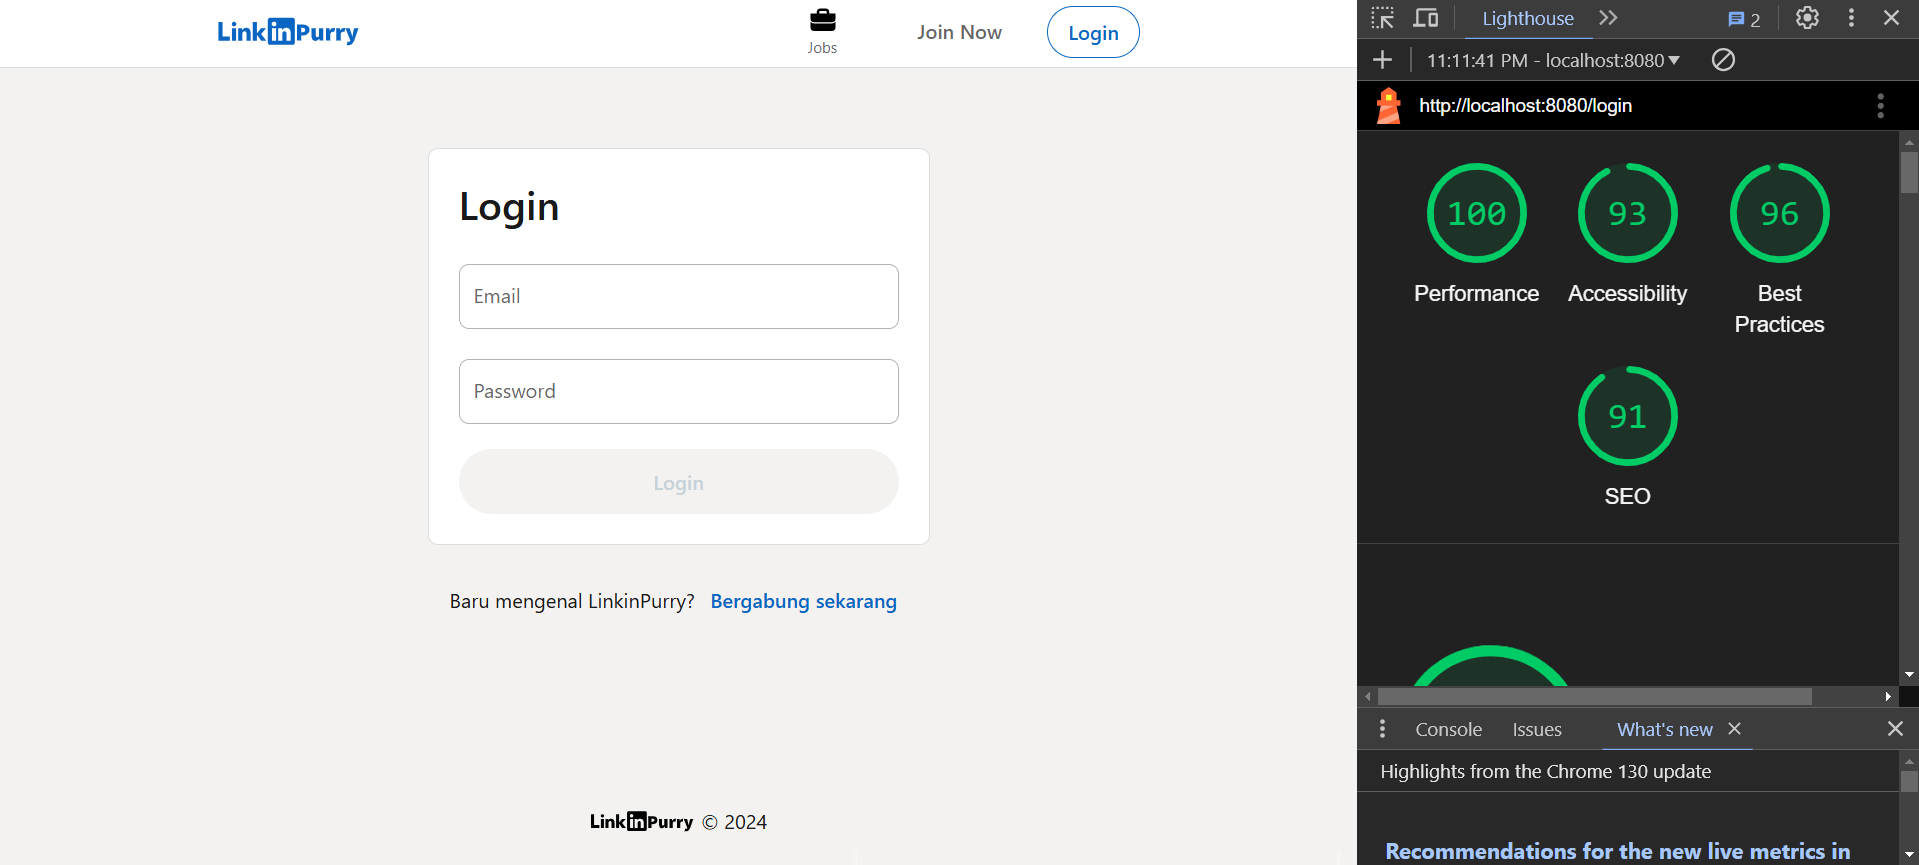
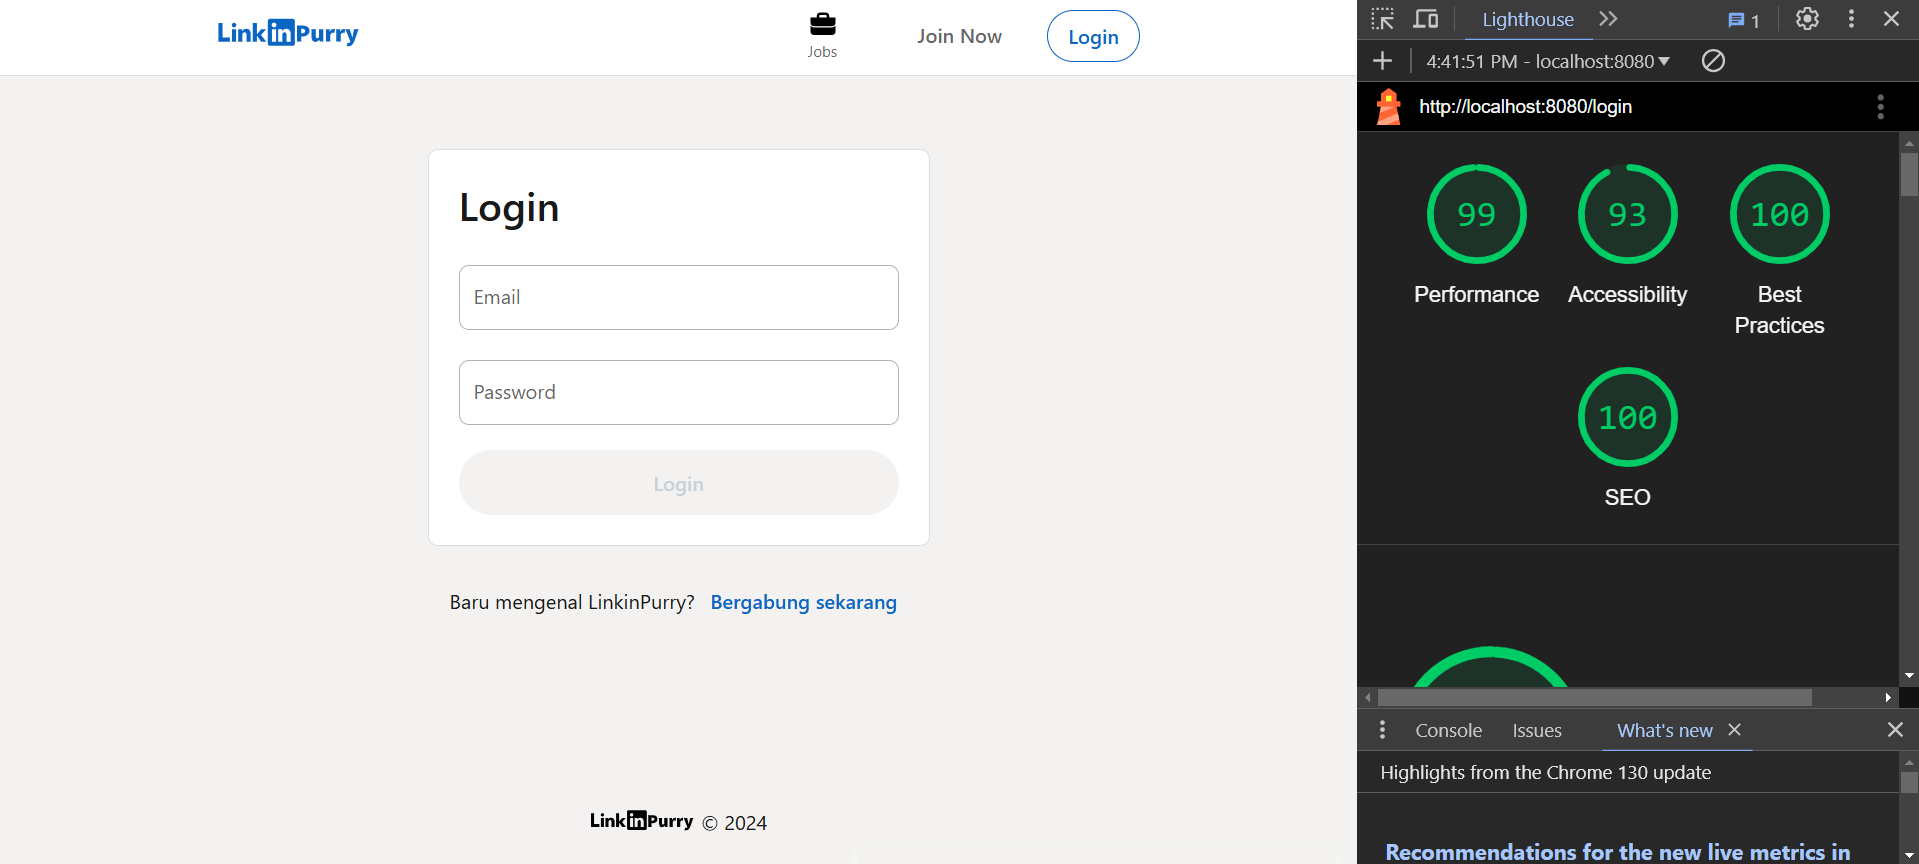
update readme lighthouse

diff --git a/README.md b/README.md
@@ -155,10 +155,10 @@ Now, you can access the server at `http://localhost:8080`.
 ![lighthouse1](screenshots\10.png)
 * Halaman edit lowongan sesudah:
 ![lighthouse1](screenshots\11.png)
-Accessibility meningkat setelah dilakukan penambahan atribut alt pada tag img dan dilakukan peningkatan kontras antara warna teks dengan warna background.
+Skor lighthouse meningkat setelah dilakukan penambahan atribut alt pada tag img dan dilakukan peningkatan kontras antara warna teks dengan warna background. Perbaikan juga dilakukan dengan melengkapi deskripsi meta.
 
 * Halaman detail lowongan (company) sebelum:
 ![lighthouse1](screenshots\12.png)
 * Halaman detail lowongan (company) sesudah:
 ![lighthouse1](screenshots\13.png)
-Accessibility meningkat setelah dipastikan semua attachment gambar dalam tag img diberikan atribut alt.
+Skor lighthouse meningkat setelah dipastikan semua attachment gambar dalam tag img diberikan atribut alt.  Perbaikan juga dilakukan dengan melengkapi deskripsi meta.
